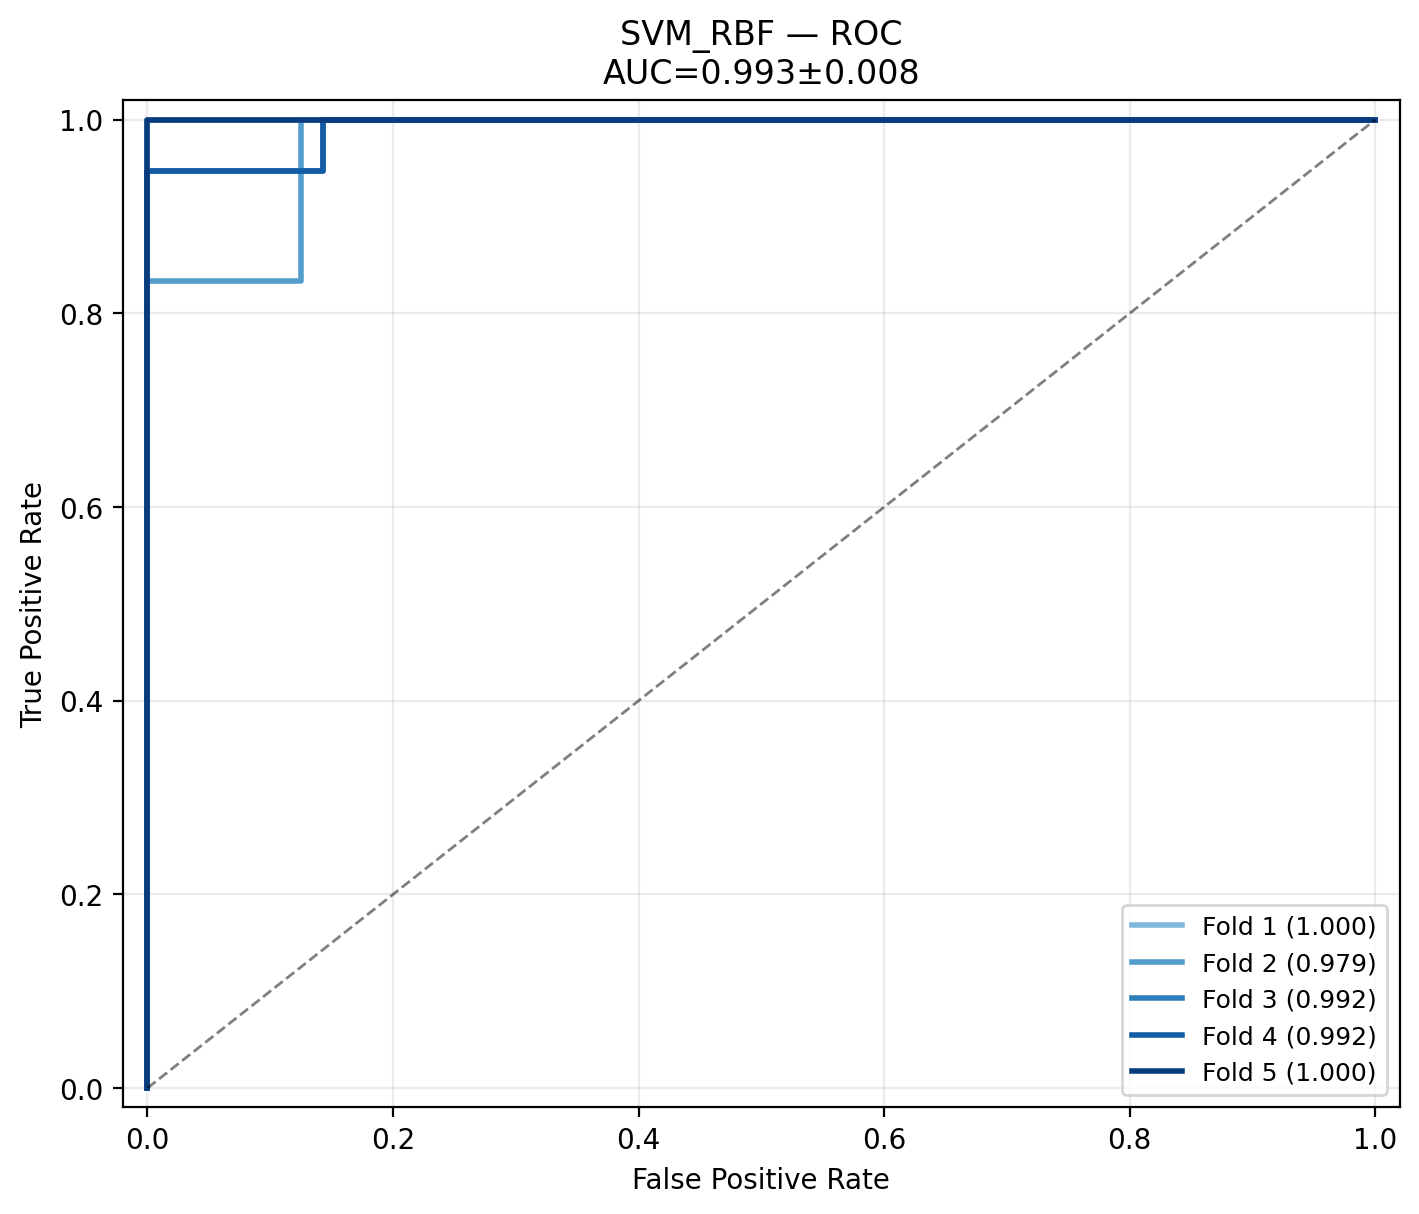
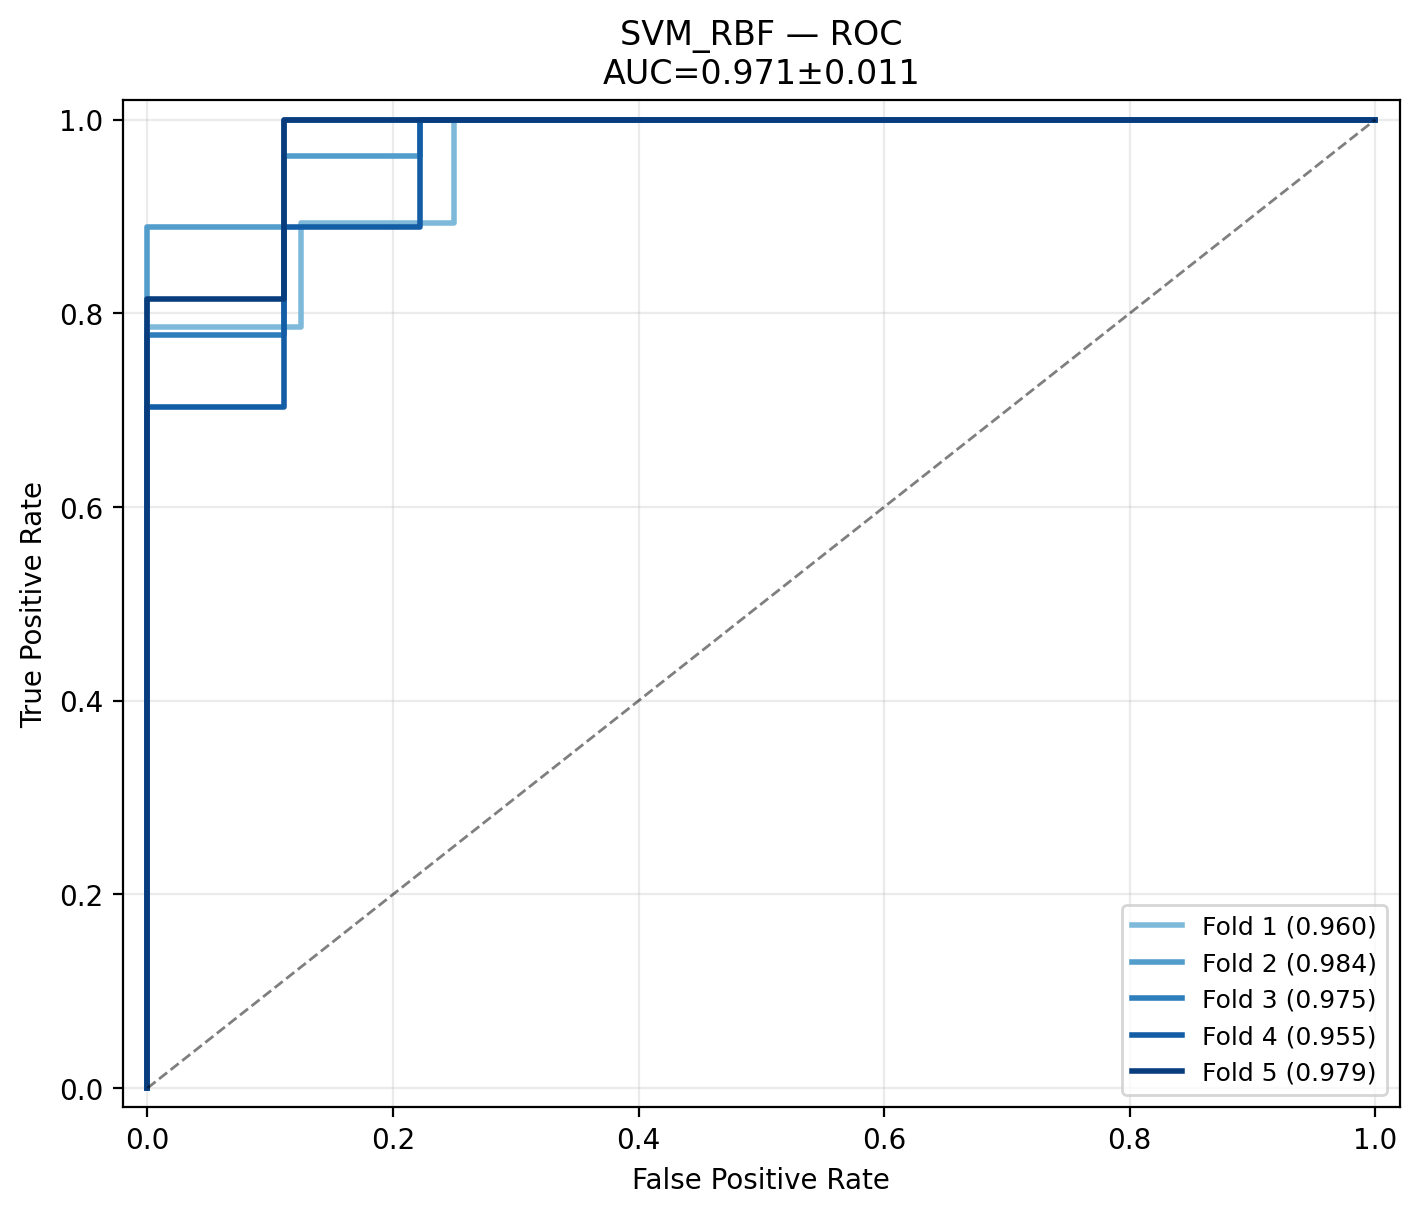
PRIDE: 4 projects first, ML after; ROC on full 180-sample cohort

diff --git a/docs/index.html b/docs/index.html
@@ -207,10 +207,21 @@
       </div>
 
       <div class="level-block">
-        <h3><span class="level-num">3</span> Протеомные данные PRIDE и машинное обучение</h3>
-        <p class="level-funding">Интеграция мультиомиксных данных и ML — в рамках проекта РНФ №&nbsp;24-74-10098 (Ильгисонис&nbsp;Е.В., Ключникова&nbsp;А.А.).</p>
-        <p>По критериям поиска в репозитории <strong>PRIDE</strong> отобраны <strong>четыре независимых проекта</strong> с протеомными профилями, связанными с раком яичников. В интегрированном анализе — <strong>180</strong> образцов. Матрица <strong>9 610 × 180</strong> белков, z-score внутри проекта, <strong>без импутации</strong>. Отобрано <strong>2 701</strong> «коровых» белков (coverage 100% во всех образцах).</p>
-        <p>Валидация <strong>LOPO</strong> (Leave-One-Project-Out): обучение на части проектов, тест на независимом. Сравнено <strong>4 стратегии × 6 алгоритмов = 24 модели</strong> — подробности и скрипты: <a href="https://github.com/aziz122596/project_ovarian_cancer" target="_blank" rel="noopener">репозиторий анализа PRIDE</a>.</p>
+        <h3><span class="level-num">3</span> Протеомные данные PRIDE</h3>
+        <p class="level-funding">Интеграция мультиомиксных данных — в рамках проекта РНФ №&nbsp;24-74-10098 (Ильгисонис&nbsp;Е.В., Ключникова&nbsp;А.А.).</p>
+        <p>По критериям поиска в репозитории <strong>PRIDE</strong> отобраны <strong>четыре независимых проекта</strong> с протеомными профилями, связанными с раком яичников (ткань и микровезикулы). В интегрированном анализе — <strong>180</strong> образцов. Матрица <strong>9 610 × 180</strong> белков, z-score внутри проекта, <strong>без импутации</strong>. Отобрано <strong>2 701</strong> «коровых» белков (coverage 100% во всех образцах).</p>
+        <p class="pride-projects">Проекты PRIDE: <a href="https://www.ebi.ac.uk/pride/archive/projects/PXD033741" target="_blank" rel="noopener">PXD033741</a> · <a href="https://www.ebi.ac.uk/pride/archive/projects/PXD009655" target="_blank" rel="noopener">PXD009655</a> · <a href="https://www.ebi.ac.uk/pride/archive/projects/PXD012998" target="_blank" rel="noopener">PXD012998</a> · <a href="https://www.ebi.ac.uk/pride/archive/projects/PXD025864" target="_blank" rel="noopener">PXD025864</a></p>
+
+        <p>Обогащённые пути: эндоплазматический стресс, UPR, окислительное фосфорилирование, митохондриальный апоптоз, цикл Кребса.</p>
+        <p><strong>194</strong> белка сонаправленно изменены в ткани и биологических жидкостях.</p>
+        <p><strong>9 приоритетных тканевых кандидатов:</strong></p>
+        <div class="marker-tags">
+          <span>SEC11A</span><span>TMCO1</span><span>SHMT2</span><span>ACAA1</span><span>MTA2</span>
+          <span>IL4I1</span><span>OCIAD2</span><span>DTX3L</span><span>THEM6</span>
+        </div>
+
+        <h4 class="level-sub">Машинное обучение</h4>
+        <p>На объединённой матрице четырёх проектов PRIDE применены алгоритмы машинного обучения. Валидация <strong>LOPO</strong> (Leave-One-Project-Out): обучение на трёх проектах, тест на четвёртом. Сравнено <strong>4 стратегии × 6 алгоритмов = 24 модели</strong> — подробности и скрипты: <a href="https://github.com/aziz122596/project_ovarian_cancer" target="_blank" rel="noopener">репозиторий анализа PRIDE</a>.</p>
 
         <table>
           <thead>
@@ -225,19 +236,9 @@
         </table>
         <p><small>Permutation <em>p</em> = 0,010. Сравнение с CA-125 / HE4 / OVA1: протеомная панель сопоставима или выше (AUROC до 0,957).</small></p>
 
-        <p>Обогащённые пути: эндоплазматический стресс, UPR, окислительное фосфорилирование, митохондриальный апоптоз, цикл Кребса.</p>
-        <p><strong>194</strong> белка сонаправленно изменены в ткани и биологических жидкостях.</p>
-        <p><strong>9 приоритетных тканевых кандидатов:</strong></p>
-        <div class="marker-tags">
-          <span>SEC11A</span><span>TMCO1</span><span>SHMT2</span><span>ACAA1</span><span>MTA2</span>
-          <span>IL4I1</span><span>OCIAD2</span><span>DTX3L</span><span>THEM6</span>
-        </div>
-
-        <p class="pride-projects">Проекты PRIDE: <a href="https://www.ebi.ac.uk/pride/archive/projects/PXD033741" target="_blank" rel="noopener">PXD033741</a> · <a href="https://www.ebi.ac.uk/pride/archive/projects/PXD009655" target="_blank" rel="noopener">PXD009655</a> · <a href="https://www.ebi.ac.uk/pride/archive/projects/PXD012998" target="_blank" rel="noopener">PXD012998</a> · <a href="https://www.ebi.ac.uk/pride/archive/projects/PXD025864" target="_blank" rel="noopener">PXD025864</a></p>
-
         <figure class="figure">
-          <img src="images/ml_tissue_svm_rbf_roc.png" alt="ROC-кривые SVM RBF: 5-fold CV на тканевых образцах PRIDE" loading="lazy" width="720" />
-          <figcaption><strong>Рис. 6.</strong> Машинное обучение (SVM RBF): 5-fold cross-validation на объединённой когорте PRIDE (4 проекта, 180 образцов). Межпроектная проверка — LOPO.</figcaption>
+          <img src="images/ml_tissue_svm_rbf_roc.png" alt="ROC-кривые SVM RBF: 5-fold CV на объединённой когорте PRIDE, 4 проекта, 180 образцов" loading="lazy" width="720" />
+          <figcaption><strong>Рис. 6.</strong> Машинное обучение (SVM RBF): 5-fold cross-validation на объединённой когорте <strong>4 проектов PRIDE</strong> (180 образцов). Межпроектная проверка — LOPO по четырём проектам.</figcaption>
         </figure>
       </div>
     </section>
@@ -277,7 +278,7 @@
 
     <section id="resources">
       <h2>Код, экспериментальные данные и воспроизводимость</h2>
-      <p>Открытый репозиторий с пайплайном машинного обучения на протеомных данных PRIDE (уровень 3 проекта):</p>
+      <p>Открытый репозиторий с пайплайном машинного обучения на протеомных данных PRIDE (уровень 3 платформы, 4 проекта):</p>
       <p><strong><a href="https://github.com/aziz122596/project_ovarian_cancer" target="_blank" rel="noopener">github.com/aziz122596/project_ovarian_cancer</a></strong></p>
       <p>В репозитории: скрипты анализа (<code>scripts/01–07</code>), методология, таблицы метрик, списки белков, описание входной матрицы (9610×180, z-score без импутации, 2701 «коровых» белков).</p>
 

diff --git a/index.html b/index.html
@@ -207,10 +207,21 @@
       </div>
 
       <div class="level-block">
-        <h3><span class="level-num">3</span> Протеомные данные PRIDE и машинное обучение</h3>
-        <p class="level-funding">Интеграция мультиомиксных данных и ML — в рамках проекта РНФ №&nbsp;24-74-10098 (Ильгисонис&nbsp;Е.В., Ключникова&nbsp;А.А.).</p>
-        <p>По критериям поиска в репозитории <strong>PRIDE</strong> отобраны <strong>четыре независимых проекта</strong> с протеомными профилями, связанными с раком яичников. В интегрированном анализе — <strong>180</strong> образцов. Матрица <strong>9 610 × 180</strong> белков, z-score внутри проекта, <strong>без импутации</strong>. Отобрано <strong>2 701</strong> «коровых» белков (coverage 100% во всех образцах).</p>
-        <p>Валидация <strong>LOPO</strong> (Leave-One-Project-Out): обучение на части проектов, тест на независимом. Сравнено <strong>4 стратегии × 6 алгоритмов = 24 модели</strong> — подробности и скрипты: <a href="https://github.com/aziz122596/project_ovarian_cancer" target="_blank" rel="noopener">репозиторий анализа PRIDE</a>.</p>
+        <h3><span class="level-num">3</span> Протеомные данные PRIDE</h3>
+        <p class="level-funding">Интеграция мультиомиксных данных — в рамках проекта РНФ №&nbsp;24-74-10098 (Ильгисонис&nbsp;Е.В., Ключникова&nbsp;А.А.).</p>
+        <p>По критериям поиска в репозитории <strong>PRIDE</strong> отобраны <strong>четыре независимых проекта</strong> с протеомными профилями, связанными с раком яичников (ткань и микровезикулы). В интегрированном анализе — <strong>180</strong> образцов. Матрица <strong>9 610 × 180</strong> белков, z-score внутри проекта, <strong>без импутации</strong>. Отобрано <strong>2 701</strong> «коровых» белков (coverage 100% во всех образцах).</p>
+        <p class="pride-projects">Проекты PRIDE: <a href="https://www.ebi.ac.uk/pride/archive/projects/PXD033741" target="_blank" rel="noopener">PXD033741</a> · <a href="https://www.ebi.ac.uk/pride/archive/projects/PXD009655" target="_blank" rel="noopener">PXD009655</a> · <a href="https://www.ebi.ac.uk/pride/archive/projects/PXD012998" target="_blank" rel="noopener">PXD012998</a> · <a href="https://www.ebi.ac.uk/pride/archive/projects/PXD025864" target="_blank" rel="noopener">PXD025864</a></p>
+
+        <p>Обогащённые пути: эндоплазматический стресс, UPR, окислительное фосфорилирование, митохондриальный апоптоз, цикл Кребса.</p>
+        <p><strong>194</strong> белка сонаправленно изменены в ткани и биологических жидкостях.</p>
+        <p><strong>9 приоритетных тканевых кандидатов:</strong></p>
+        <div class="marker-tags">
+          <span>SEC11A</span><span>TMCO1</span><span>SHMT2</span><span>ACAA1</span><span>MTA2</span>
+          <span>IL4I1</span><span>OCIAD2</span><span>DTX3L</span><span>THEM6</span>
+        </div>
+
+        <h4 class="level-sub">Машинное обучение</h4>
+        <p>На объединённой матрице четырёх проектов PRIDE применены алгоритмы машинного обучения. Валидация <strong>LOPO</strong> (Leave-One-Project-Out): обучение на трёх проектах, тест на четвёртом. Сравнено <strong>4 стратегии × 6 алгоритмов = 24 модели</strong> — подробности и скрипты: <a href="https://github.com/aziz122596/project_ovarian_cancer" target="_blank" rel="noopener">репозиторий анализа PRIDE</a>.</p>
 
         <table>
           <thead>
@@ -225,19 +236,9 @@
         </table>
         <p><small>Permutation <em>p</em> = 0,010. Сравнение с CA-125 / HE4 / OVA1: протеомная панель сопоставима или выше (AUROC до 0,957).</small></p>
 
-        <p>Обогащённые пути: эндоплазматический стресс, UPR, окислительное фосфорилирование, митохондриальный апоптоз, цикл Кребса.</p>
-        <p><strong>194</strong> белка сонаправленно изменены в ткани и биологических жидкостях.</p>
-        <p><strong>9 приоритетных тканевых кандидатов:</strong></p>
-        <div class="marker-tags">
-          <span>SEC11A</span><span>TMCO1</span><span>SHMT2</span><span>ACAA1</span><span>MTA2</span>
-          <span>IL4I1</span><span>OCIAD2</span><span>DTX3L</span><span>THEM6</span>
-        </div>
-
-        <p class="pride-projects">Проекты PRIDE: <a href="https://www.ebi.ac.uk/pride/archive/projects/PXD033741" target="_blank" rel="noopener">PXD033741</a> · <a href="https://www.ebi.ac.uk/pride/archive/projects/PXD009655" target="_blank" rel="noopener">PXD009655</a> · <a href="https://www.ebi.ac.uk/pride/archive/projects/PXD012998" target="_blank" rel="noopener">PXD012998</a> · <a href="https://www.ebi.ac.uk/pride/archive/projects/PXD025864" target="_blank" rel="noopener">PXD025864</a></p>
-
         <figure class="figure">
-          <img src="images/ml_tissue_svm_rbf_roc.png" alt="ROC-кривые SVM RBF: 5-fold CV на тканевых образцах PRIDE" loading="lazy" width="720" />
-          <figcaption><strong>Рис. 6.</strong> Машинное обучение (SVM RBF): 5-fold cross-validation на объединённой когорте PRIDE (4 проекта, 180 образцов). Межпроектная проверка — LOPO.</figcaption>
+          <img src="images/ml_tissue_svm_rbf_roc.png" alt="ROC-кривые SVM RBF: 5-fold CV на объединённой когорте PRIDE, 4 проекта, 180 образцов" loading="lazy" width="720" />
+          <figcaption><strong>Рис. 6.</strong> Машинное обучение (SVM RBF): 5-fold cross-validation на объединённой когорте <strong>4 проектов PRIDE</strong> (180 образцов). Межпроектная проверка — LOPO по четырём проектам.</figcaption>
         </figure>
       </div>
     </section>
@@ -277,7 +278,7 @@
 
     <section id="resources">
       <h2>Код, экспериментальные данные и воспроизводимость</h2>
-      <p>Открытый репозиторий с пайплайном машинного обучения на протеомных данных PRIDE (уровень 3 проекта):</p>
+      <p>Открытый репозиторий с пайплайном машинного обучения на протеомных данных PRIDE (уровень 3 платформы, 4 проекта):</p>
       <p><strong><a href="https://github.com/aziz122596/project_ovarian_cancer" target="_blank" rel="noopener">github.com/aziz122596/project_ovarian_cancer</a></strong></p>
       <p>В репозитории: скрипты анализа (<code>scripts/01–07</code>), методология, таблицы метрик, списки белков, описание входной матрицы (9610×180, z-score без импутации, 2701 «коровых» белков).</p>
 

diff --git a/css/style.css b/css/style.css
@@ -271,6 +271,13 @@ li { margin-bottom: 0.4rem; }
   margin-top: 0;
 }
 
+.level-sub {
+  margin: 1.5rem 0 0.75rem;
+  font-size: 1.1rem;
+  font-weight: 600;
+  color: var(--accent);
+}
+
 .level-num {
   display: inline-block;
   font-size: var(--text-sm);

diff --git a/scripts/make_tissue_svm_roc.py b/scripts/make_tissue_svm_roc.py
@@ -1,5 +1,5 @@
 # -*- coding: utf-8 -*-
-"""ROC SVM RBF, 5-fold CV на тканевых образцах PRIDE (3 проекта, n=130)."""
+"""ROC SVM RBF, 5-fold CV на объединённой когорте PRIDE (4 проекта, n=180)."""
 from pathlib import Path
 
 import matplotlib.pyplot as plt
@@ -12,8 +12,6 @@ from sklearn.preprocessing import StandardScaler
 from sklearn.svm import SVC
 
 RANDOM_STATE = 42
-EV_PROJECT = "PXD009655"
-
 ROOT = Path(__file__).resolve().parents[1]
 MATRIX_CANDIDATES = [
     ROOT.parent / "Машинка Арина" / "Машинка Арина" / "matrix_after_project_zscore_no_imputation.xlsx",
@@ -30,7 +28,7 @@ def find_matrix() -> Path:
     raise FileNotFoundError("matrix_after_project_zscore_no_imputation.xlsx not found")
 
 
-def load_tissue_xy(matrix_path: Path):
+def load_pride_xy(matrix_path: Path):
     df = pd.read_excel(matrix_path, sheet_name="matrix_after_project_z")
     ann = pd.read_excel(matrix_path, sheet_name="sample_annotation")
     meta = ["Protein IDs", "Gene names", "Protein names", "Majority protein IDs"]
@@ -39,11 +37,9 @@ def load_tissue_xy(matrix_path: Path):
     complete = ~X.isna().any(axis=0)
     X = X.loc[:, complete]
     ann2 = ann.set_index("SampleColumn").reindex(X.index)
-    tissue_mask = ann2["Project"].astype(str) != EV_PROJECT
-    X_t = X.loc[tissue_mask].values
-    y_t = (ann2.loc[tissue_mask, "Status"].astype(str) == "Cancer").astype(int).values
-    projects = ann2.loc[tissue_mask, "Project"].value_counts().to_dict()
-    return X_t, y_t, projects
+    y = (ann2["Status"].astype(str) == "Cancer").astype(int).values
+    projects = ann2["Project"].value_counts().to_dict()
+    return X.values, y, projects
 
 
 def plot_svm_rbf_roc(X, y, out_path: Path):
@@ -86,7 +82,7 @@ def plot_svm_rbf_roc(X, y, out_path: Path):
 
 def main():
     matrix_path = find_matrix()
-    X, y, projects = load_tissue_xy(matrix_path)
+    X, y, projects = load_pride_xy(matrix_path)
     mean_auc, std_auc, folds = plot_svm_rbf_roc(X, y, OUT)
     plot_svm_rbf_roc(X, y, OUT_DOCS)
     print(f"samples={X.shape[0]}, features={X.shape[1]}")